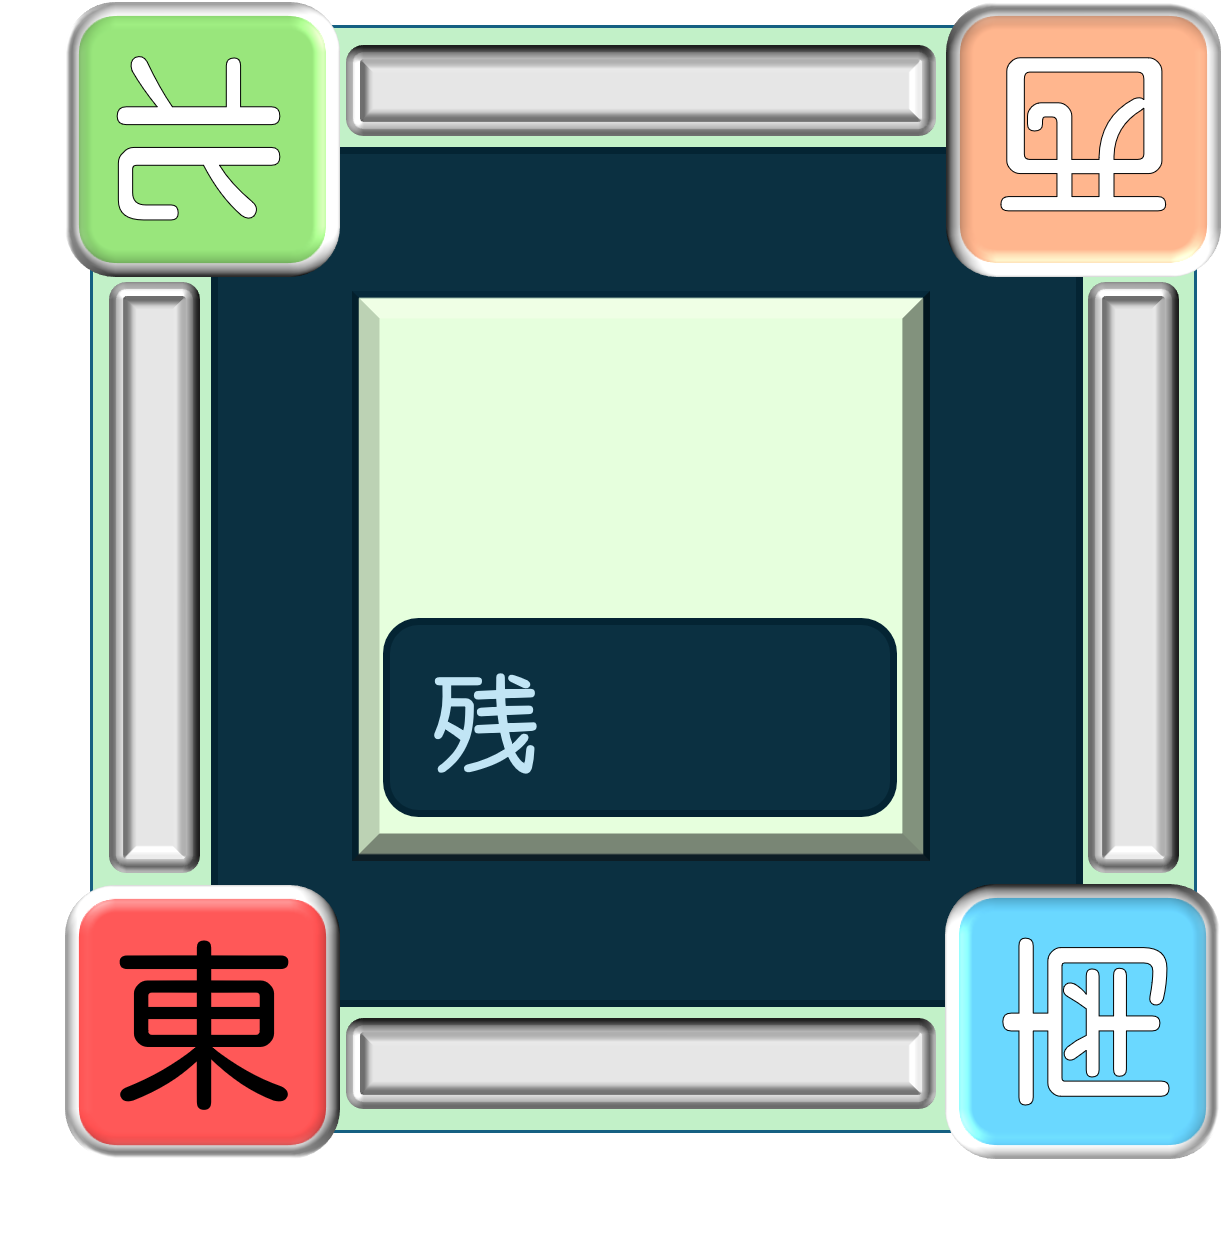
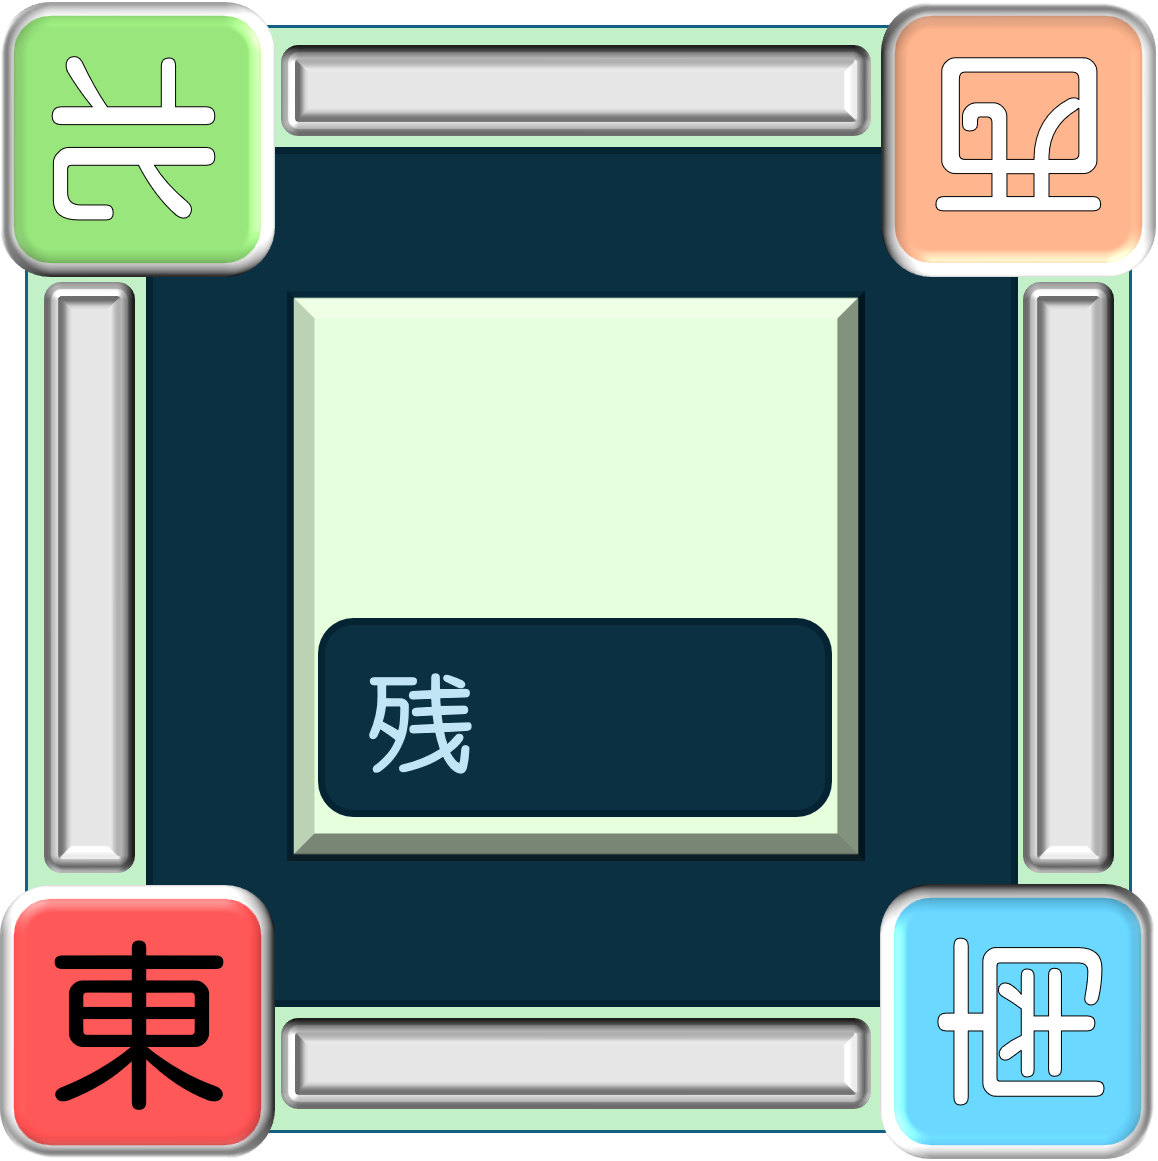
ゲーム画面の表示調整

diff --git a/src/components/CenterTableInfo.vue b/src/components/CenterTableInfo.vue
@@ -324,7 +324,7 @@ function getPlayerDisplayLabel(player) {
   /* top, left, transform で微調整 */
   top: 50%;
   left: 50%;
-  transform: translate(-59%, -128%); /* まず中央に配置 */
+  transform: translate(-51%, -120%); /* まず中央に配置 */
   width: 40%; /* 適切なサイズに調整 */
   height: auto;
   z-index: 2; /* 親画像より手前に表示 */
@@ -334,7 +334,7 @@ function getPlayerDisplayLabel(player) {
   position: absolute;
   top: 50%;
   left: 50%;
-  transform: translate(-85%, -95%); /* 位置調整 */
+  transform: translate(-80%, -80%); /* 位置調整 */
   width: 27%; /* 適切なサイズに調整 */
   height: auto;
   z-index: 2; /* 親画像より手前に表示 (round-indicator-image と同じか、必要なら調整) */
@@ -346,21 +346,20 @@ function getPlayerDisplayLabel(player) {
   top: 50%;
   left: 50%;
   /* zan_1000.png の上に重ねるように位置を調整 */
-  transform: translate(8%, -97%); /* 位置調整*/
+  transform: translate(13%, -80%); /* 位置調整*/
   z-index: 3; /* 供託棒ベース画像より手前 */
 }
 .riichi-stick-count-digit {
   width: 14%; /* 適切なサイズに調整 (zan_1000.png の幅に対する割合など) */
   height: auto;
   object-fit: contain;
-  /* 必要に応じてマージン調整 */
 }
 .remaining-tiles-count-images {
   position: absolute;
   display: flex;
   top: 50%;
   left: 50%;
-  transform: translate(-17%, 22%); /* 位置調整*/
+  transform: translate(-12%, 50%); /* 位置調整*/
   z-index: 3; /* 他の重なり合う画像より手前になるように調整 */
 }
 .remaining-tiles-count-digit {
@@ -384,29 +383,29 @@ function getPlayerDisplayLabel(player) {
   min-width: calc(14px * 6 + 8px); /* 少し小さめの目安幅 */
 }
 .bottom-player-score { /* 自家点数用の追加位置調整 */
-  bottom: -26%; /* コンテナ下部からの位置 */
-  right: 35%;  /* コンテナ右部からの位置 */
+  bottom: -29.5%; /* コンテナ下部からの位置 */
+  right: 31%;  /* コンテナ右部からの位置 */
 }
 .left-player-score { /* 下家(画面左)点数用の追加位置調整 */
-  top: -16%;
-  left: -63%;
+  top: -13%;
+  left: -62%;
   transform: translateY(-50%) rotate(90deg);
 }
 .top-player-score { /* 対面(画面上)点数用の追加位置調整 */
-  top: -32%;
-  left: 63%;
+  top: -31%;
+  left: 65%;
   transform: translateX(-50%) rotate(180deg);
 }
 .right-player-score { /* 上家(画面右)点数用の追加位置調整 */
-  top: 108%;
-  right: -53%;
+  top: 114%;
+  right: -62%;
   transform: translateY(-50%) rotate(-90deg);
 }
 .vertical-player-score .score-sign-image {
   width: 10%; /* 対面の符号画像の幅 */
 }
 .side-player-score .score-sign-image {
-  width: 4%; /* 上家・下家の符号画像の幅*/
+  width: 4.1%; /* 上家・下家の符号画像の幅*/
 }
 .bottom-player-score .score-digit-image {
   width: 10%; /* 自家の数字画像の幅を小さく調整 */
@@ -420,7 +419,7 @@ function getPlayerDisplayLabel(player) {
   width: 10%; /* 対面の数字画像の幅 */
 }
 .side-player-score .score-digit-image {
-  width: 4%; /* 上家・下家の数字画像の幅 */
+  width: 4.1%; /* 上家・下家の数字画像の幅 */
 }
 .score-digit-image { /* 共通スタイル */
   height: auto;
@@ -434,23 +433,23 @@ function getPlayerDisplayLabel(player) {
   z-index: 4; /* 点数表示と同等か、少し手前/奥に調整 */
 }
 .bottom-riichi-stick {
-  bottom: 11.5%; /* 自家点数表示の上あたり */
-  left: 48%;
+  bottom: 6.5%; /* 自家点数表示の上あたり */
+  left: 50%;
   transform: translateX(-50%);
 }
 .left-riichi-stick {
-  top: 48%;
+  top: 50%;
   left: -13.5%; /* 上家点数表示の右あたり */
   transform: translateY(-50%) rotate(90deg);
 }
 .top-riichi-stick {
-  top: 5%; /* 対面点数表示の下あたり */
-  left: 47%;
+  top: 6%; /* 対面点数表示の下あたり */
+  left: 50%;
   transform: translateX(-50%) rotate(180deg);
 }
 .right-riichi-stick {
-  top: 48%;
-  right: -9%; /* 下家点数表示の左あたり */
+  top: 50%;
+  right: -14%; /* 下家点数表示の左あたり */
   transform: translateY(-50%) rotate(-90deg);
 }
 </style>

diff --git a/src/components/PlayerHand.vue b/src/components/PlayerHand.vue
@@ -90,11 +90,20 @@
   /* プレイヤーの位置に応じた手牌の向き調整 */
   .player-hand-container.position-bottom,
   .player-hand-container.position-top {
-    flex-direction: column; /* 上下プレイヤーは手牌とツモ牌を縦に */
+    align-items: flex-start; /* 手牌とツモ牌の上端を揃える */
   }
-  .player-hand-container.position-left,
+  .player-hand-container.position-bottom { flex-direction: row; }
+  .player-hand-container.position-top {
+    flex-direction: row-reverse; /* 対面はツモ牌が手牌の左(画面上)に来るように逆順 */
+  }
+  .player-hand-container.position-left {
+    flex-direction: column; /* 左プレイヤーは手牌エリアとツモ牌エリアを縦に */
+    width: fit-content;
+    padding: 0;
+    align-items: center;
+  }
   .player-hand-container.position-right {
-    flex-direction: row; /* 左右プレイヤーは手牌とツモ牌を横に */
+    flex-direction: column-reverse; /* 右プレイヤーはツモ牌が手牌の上(画面上)に来るように逆順 */
     width: fit-content; /* コンテナの幅を内容に合わせる */
     padding: 0; /* 左右プレイヤーのコンテナのpaddingを0に */
     align-items: center;
@@ -109,7 +118,7 @@
   .player-hand {
     display: flex;
     gap: 0px; /* 牌同士の間隔 */
-    padding: 5px;
+    padding: 0; /* 牌自体の間隔はgapで制御するので、paddingは0に */
     min-height: 62px; /* 牌の高さ + paddingなど */
   }
 
@@ -118,25 +127,47 @@
   .position-right .player-hand {
     flex-direction: column;
     min-height: auto;
-    padding: 0; /* 左右プレイヤーの手牌エリアのパディングを削除 */
   }
 
   .drawn-tile-area {
-    margin-left: auto; /* 手牌とツモ牌の間隔 */
+    display: flex; /* 内部の.tileを正しく配置するため */
   }
-  .position-left .drawn-tile-area,
+  .position-top .drawn-tile-area {
+    margin-left: 0; /* 左側に配置されるので左マージンは不要 */
+    margin-right: 15px; /* 手牌との間に右マージンを設定 */
+  }
+  .position-bottom .drawn-tile-area {
+    margin-left: 15px; /* 自家は手牌の右にツモ牌 */
+  }
+  .position-left .drawn-tile-area {
+    margin-left: 0; /* 縦並びなので左マージンは不要 */
+    margin-top: 15px; /* 手牌エリアの下にツモ牌エリアを配置するためのマージン */
+  }
   .position-right .drawn-tile-area {
-    margin-left: 0;
+    margin-left: 0; /* 縦並びなので左マージンは不要 */
+    margin-bottom: 15px; /* 手牌エリアとの間に下マージンを設定 (column-reverseのため) */
   }
 
   .tile {
-    width: 50px; /* 牌の幅を大きく */
-    height: auto; /* 牌の高さを大きく */
     display: flex;
     justify-content: center;
     align-items: center;
     position: relative; /* ラベル表示のため */
   }
+
+    /* 自家・対面の牌サイズ */
+  .player-hand-container.position-bottom .tile,
+  .player-hand-container.position-top .tile {
+    width: 50px;  /* 牌の幅 */
+    height: 70px; /* 牌の高さ (実際の画像アスペクト比に合わせて調整) */
+  }
+  /* 左右プレイヤーの牌サイズ (90度回転するため幅と高さが逆転) */
+  .player-hand-container.position-left .tile,
+  .player-hand-container.position-right .tile {
+    width: 70px;  /* 回転後の表示幅 (元の牌の高さに相当) */
+    height: 50px; /* 回転後の表示高さ (元の牌の幅に相当) */
+  }
+
   /* 牌の画像の向き */
   .player-hand-container.position-top .tile img {
     transform: rotate(180deg);
@@ -172,9 +203,10 @@
   }
 
   .tile img {
-    max-width: 100%;
-    max-height: 100%;
-    object-fit: contain;
+    width: 50px;  /* 牌の回転前の幅を指定 */
+    height: 70px; /* 牌の回転前の高さを指定 (実際の画像のアスペクト比に合わせて調整) */
+    object-fit: contain; /* アスペクト比は維持する */
+    display: block; /* 画像下の余分なスペースを取り除く場合がある */
   }
 
   .tile.my-tile.selectable:hover { /* isMyHand と canDiscard が true の場合 */

diff --git a/src/components/PlayerArea.vue b/src/components/PlayerArea.vue
@@ -107,11 +107,12 @@ function emitAction(actionType) {
   display: flex;
   flex-direction: column; /* 基本は縦積み */
   align-items: center;
-  /* background-color: rgba(128, 128, 128, 0.1); */ /* デバッグ用背景色 */
+  position: relative; /* アクションボタンの絶対配置の基準 */
 }
 .player-game-elements {
   display: flex;
   width: 100%;
+  /* アクションボタンが絶対配置になるため、このエリアがボタンと重ならないようにマージン調整が必要な場合がある */
 }
 
 .player-area-bottom > .player-game-elements { flex-direction: column; align-items: center; }
@@ -129,8 +130,12 @@ function emitAction(actionType) {
   width: fit-content; /* このコンテナも内容に合わせる */
 }
 
-/* 左右プレイヤーのエリア全体の幅を制限する場合 */
-.player-area-left, .player-area-right { max-width: 100px; /* 例 */ }
+/* 左右プレイヤーのエリア全体の幅を内容に合わせる */
+.player-area-left, .player-area-right {
+  /* max-width: 100px; */ /* この行をコメントアウトまたは削除 */
+  width: fit-content; /* 幅を内容に合わせる */
+}
+
 
 .player-info { font-size: 0.9em; margin-bottom: 5px; text-align: center; }
 .melds-area { display: flex; gap: 5px; margin-top: 5px; }
@@ -142,6 +147,24 @@ function emitAction(actionType) {
     gap: 5px;
     flex-wrap: wrap;
     justify-content: center; /* ボタンを中央揃え */
+    position: absolute; /* 他の要素のレイアウトフローから切り離す */
+    z-index: 10; /* 他の要素より手前に表示 */
+    background-color: rgba(0,0,0,0.1); /* ボタンエリアの背景を少し暗くして視認性向上 (任意) */
+    padding: 5px;
+    border-radius: 4px;
+}
+
+/* 各ポジションごとのアクションボタンの位置調整 */
+.player-actions-bottom {
+  bottom: -40px; /* 手牌エリアの下に配置 (値はボタンの高さに応じて調整) */
+  left: 50%;
+  transform: translateX(-50%);
+}
+.player-actions-top {
+  top: -40px; /* 手牌エリアの上に配置 (値はボタンの高さに応じて調整) */
+  left: 50%;
+  transform: translateX(-50%);
+  flex-direction: row-reverse; /* ボタンの並び順を反転させる場合 */
 }
 
 /* アクションボタンの向き調整 */
@@ -149,6 +172,16 @@ function emitAction(actionType) {
   flex-direction: column; /* 左右プレイヤーのボタンは縦に並べる */
   align-items: flex-start; /* 左寄せ */
   gap: 3px;
+}
+.player-actions-left {
+  left: -80px; /* 手牌エリアの左に配置 (値はボタンの幅に応じて調整) */
+  top: 50%;
+  transform: translateY(-50%);
+}
+.player-actions-right {
+  right: -80px; /* 手牌エリアの右に配置 (値はボタンの幅に応じて調整) */
+  top: 50%;
+  transform: translateY(-50%);
 }
 .player-actions-left button, .player-actions-right button {
   width: 100%; /* ボタン幅をコンテナに合わせる */

diff --git a/src/services/mahjongLogic.js b/src/services/mahjongLogic.js
@@ -29,7 +29,6 @@ export function getAllTiles() {
     }
   });
 
-/*
   // 字牌 (東南西北白發中) - 各4枚
   Object.values(JIHAI_TYPES).forEach(rank => {
     for (let i = 0; i < 4; i++) {
@@ -41,7 +40,7 @@ export function getAllTiles() {
       idCounter++;
     }
   });
-*/
+
   return tiles;
 }
 
